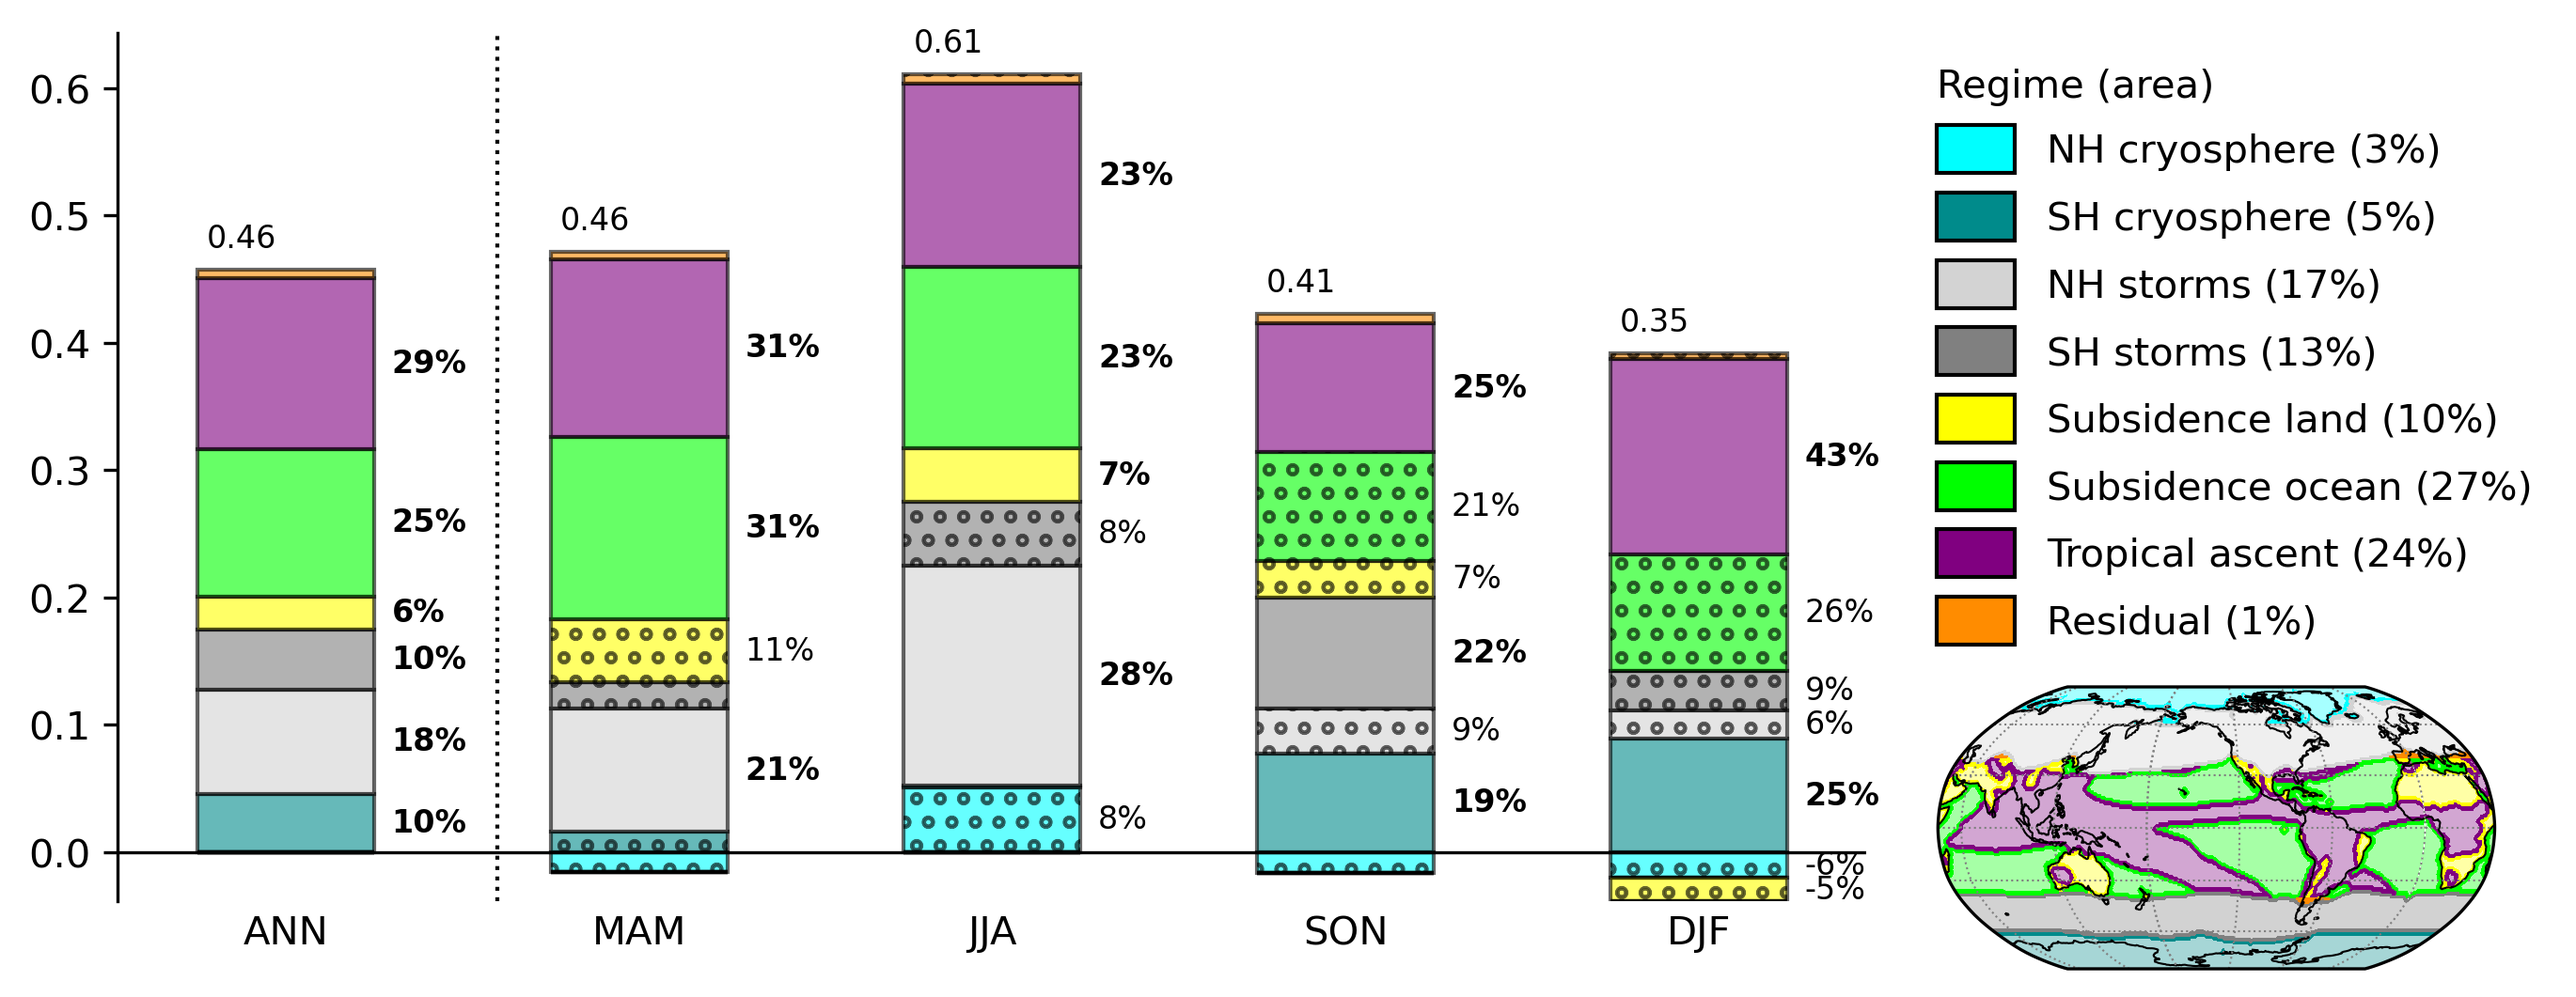
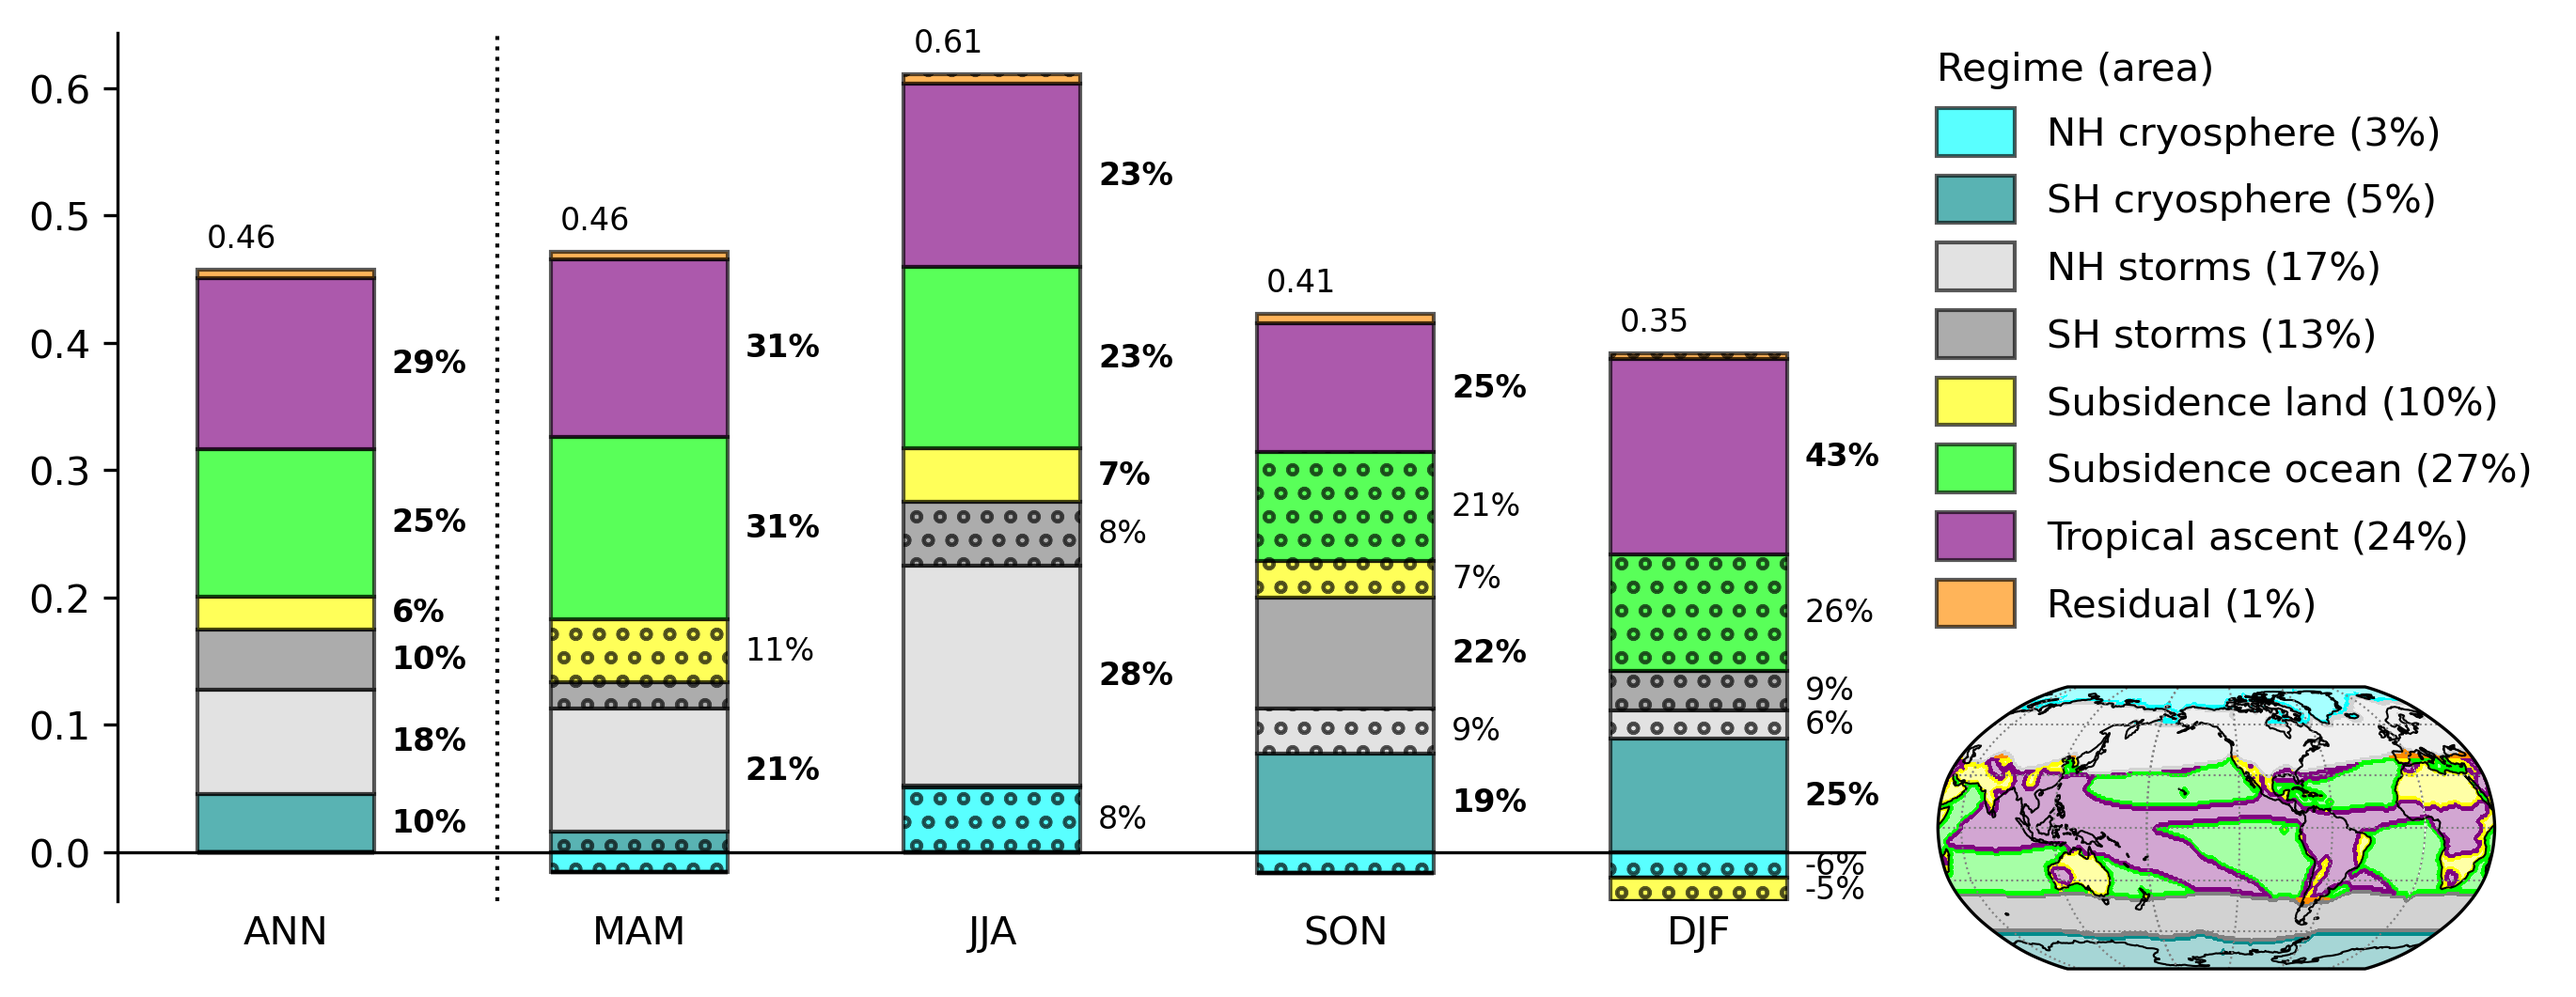
fine tuning

Changed region(s): [[0.7445, 0.0622, 0.9927, 0.6532]]

diff --git a/make_figs/barchart.py b/make_figs/barchart.py
@@ -48,7 +48,7 @@ def do_barchart(regime_trend_file="pp/regime_mean_trends.nc", PLOT_VAR="net", ex
                 bottom=bottom_pos[i],
                 color=colors[r],
                 # alpha=light_alpha + sig[i]*(1-light_alpha),
-                alpha=0.6,
+                alpha=0.65,
                 edgecolor="k",
                 label=r if i==0 else None,
             )
@@ -57,7 +57,7 @@ def do_barchart(regime_trend_file="pp/regime_mean_trends.nc", PLOT_VAR="net", ex
                 bottom=bottom_neg[i],
                 color=colors[r],
                 # alpha=light_alpha + sig[i]*(1-light_alpha),
-                alpha=0.6,
+                alpha=0.65,
                 edgecolor="k",
             )    
 
@@ -106,7 +106,7 @@ def do_barchart(regime_trend_file="pp/regime_mean_trends.nc", PLOT_VAR="net", ex
                 facecolor=colors[r],
                 edgecolor="k",
                 # hatch=hatches_legend.get(r, ""),
-                alpha=1.0
+                alpha=0.65,
             )
         )
         r_formatted = r.replace('_',' ').replace("nh","NH").replace("sh","SH")
@@ -121,7 +121,7 @@ def do_barchart(regime_trend_file="pp/regime_mean_trends.nc", PLOT_VAR="net", ex
         handleheight=1.5,
         title="Regime (area)",
         alignment="left",
-        bbox_to_anchor=(1.02, 1.0),
+        bbox_to_anchor=(1.02, 1.02),
         loc="upper left",
         frameon=False
     )
